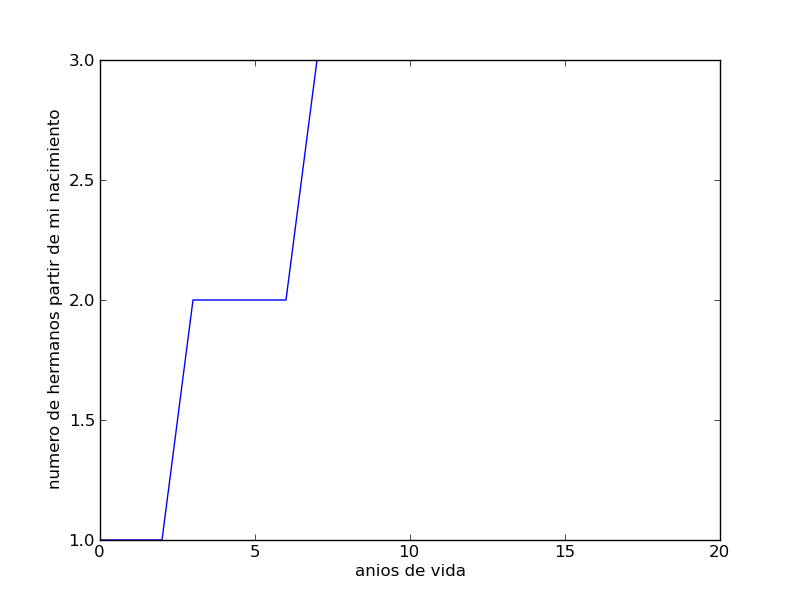
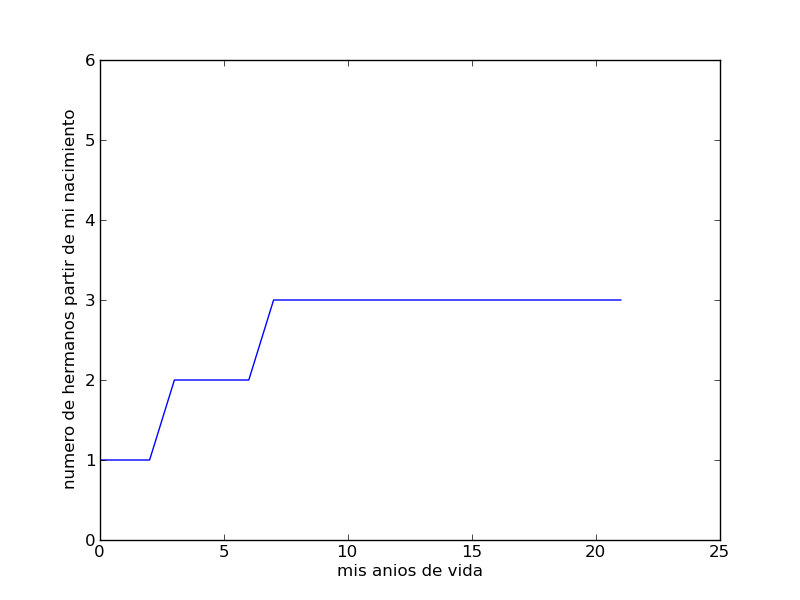
Add files via upload
tarea coregida

diff --git a/temp.py b/temp.py
@@ -1,10 +1,11 @@
 00#Python usa librerias como matplotlib con objetos predeterminados como pyplot que tienen propiedades que permiten enviar las instrucciones a la maquina de una forma resumida. Matplotlib es una libreria para crear graficas en 2 dimensiones. 
 import matplotlib.pyplot as plt
 #Construimos el objeto plt introduciendo valores que se grafican contra el numero de entrada. Por ejemplo si queremos graficar el crecimiento de un material por dia en centimetros. 
-plt.plot([1,1,1,2,2,2,2,3,3,3,3,3,3,3,3,3,3,3,3,3])
-#Con esta isntruccion colocamos un titulo al eje Y de la grafica. 
-plt.xlabel('anios de vida')
+plt.plot([1,1,1,2,2,2,2,3,3,3,3,3,3,3,3,3,3,3,3,3,3,3])
+#Con esta isntruccion colocamos un titulo al eje Y de la grafica.
+plt.xlabel('mis anios de vida') 
 plt.ylabel('numero de hermanos partir de mi nacimiento')
+plt.ylim(0,6)
 #Con esta isntruccion guardamos la imagen con el formato que queramos.
 plt.savefig('temp.png')
 #Con esta instruccion mostramos la figura. 
